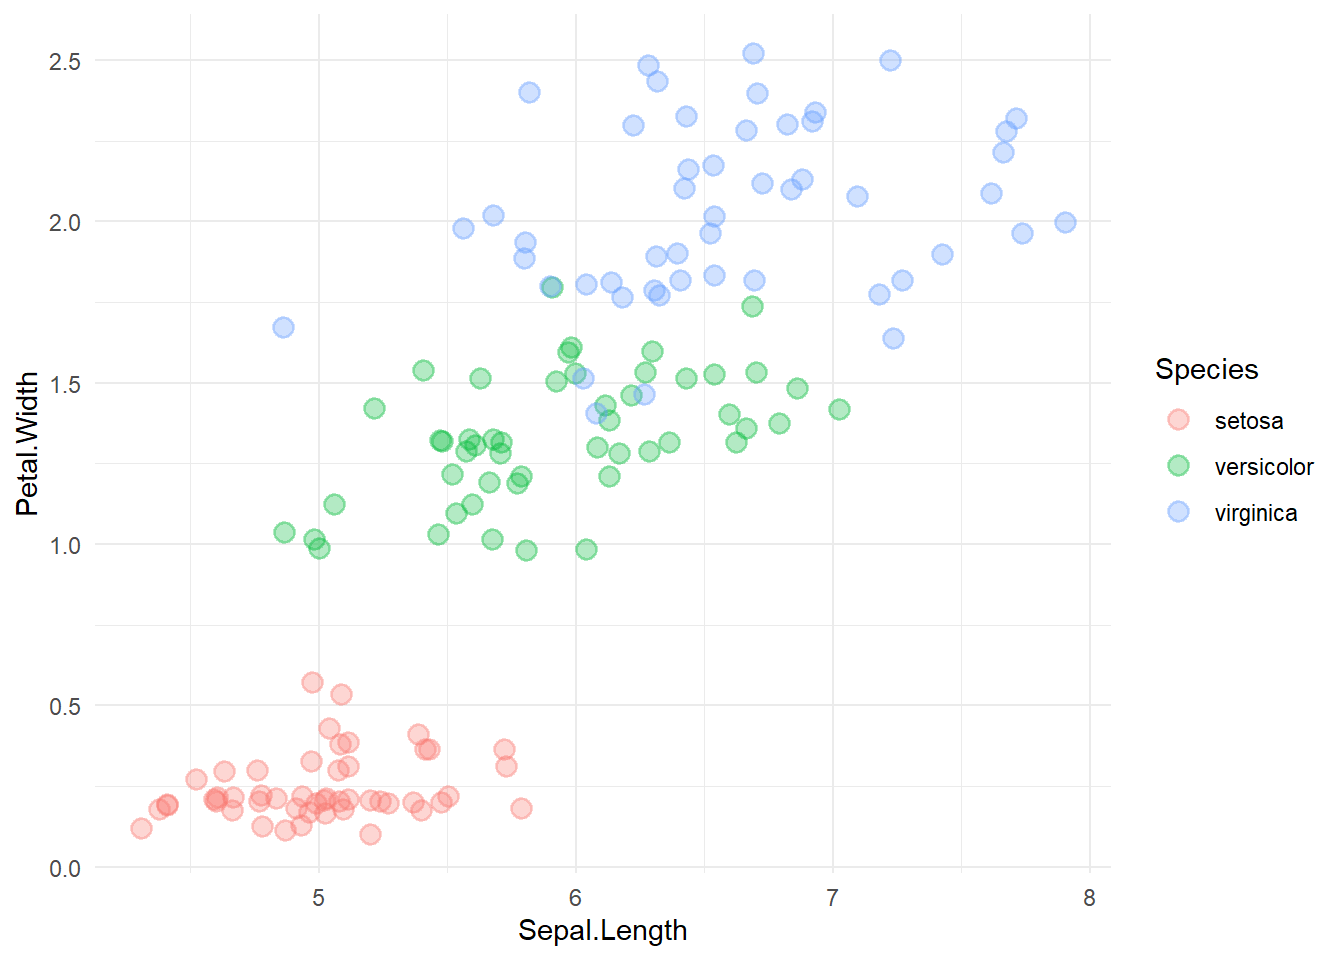
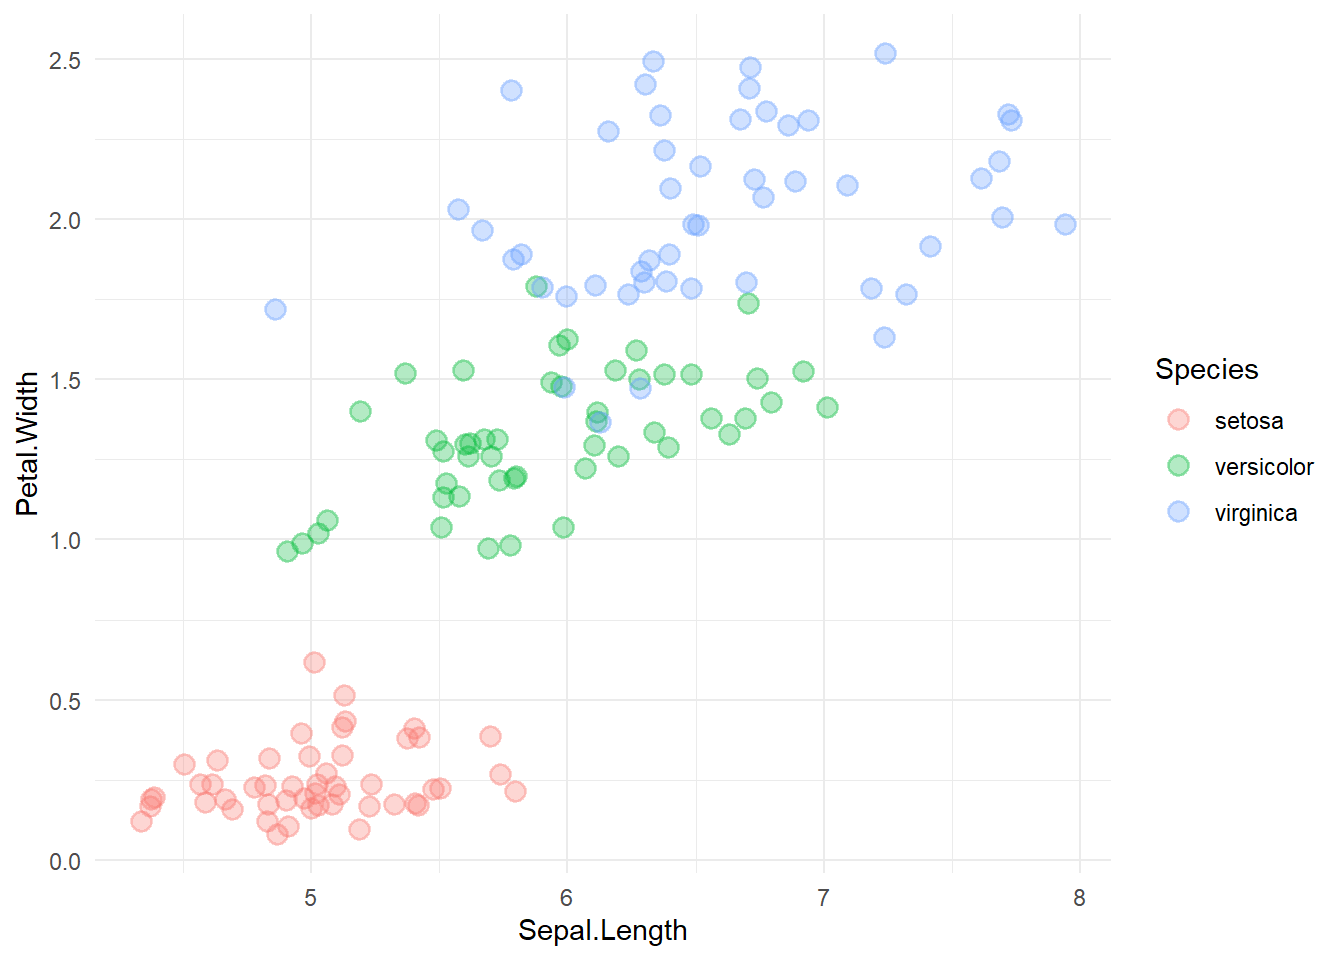
actualización excel XY

diff --git a/docs/posts/excel-xy/index.html b/docs/posts/excel-xy/index.html
@@ -238,7 +238,8 @@ code span.wa { color: #60a0b0; font-weight: bold; font-style: italic; } /* Warni
 <p>El método que he elegido es utilizar las tablas dinámicas. Desgraciadamente (e inexplicablemente), las tablas dinámicas no permiten la utilización de gráficos dinámicos XY, por lo que los usuarios han buscado formas alternativas de crearlos. La que vamos a utilizar aquí es la creación de un gráfico XY a partir de la asignación manual de los rangos de datos de la tabla dinámica.</p>
 <p>Utilizaremos el dataset <code>iris</code>(<a href="https://es.wikipedia.org/wiki/Conjunto_de_datos_flor_iris">Conjunto de datos Iris en Wikipedia</a>, <a href="https://www.kaggle.com/datasets/uciml/iris">Conjunto de datos Iris en kaggle</a>), exportado desde R, que convertimos en una tabla de Excel mediante <code>Menu</code>&gt;<code>Insertar</code>&gt;<code>Tabla</code></p>
 <p><img src="excel-tabla-iris.png" class="img-fluid"></p>
-<p>Queremos hacer una gráfica XY de la columna <code>Sepal.Length</code> frente a <code>Petal.Width</code>. Comenzamos insertando una tabla dinámica a partir de esta tabla, y colocamos<code>Species</code>en columnas,<code>Sepal.Length</code>en filas y<code>Petal.Width</code>en valores.</p>
+<p>Queremos hacer una gráfica XY de la columna <code>Sepal.Length</code> frente a <code>Petal.Width</code>, agrupada por <code>Species</code>, igual que hemos visto en el gráfico hecho con <code>ggplot</code>.</p>
+<p>Comenzamos insertando una tabla dinámica a partir de esta tabla, y colocamos<code>Species</code>en columnas,<code>Sepal.Length</code>en filas y<code>Petal.Width</code>en valores.</p>
 <p>Vamos a introducir algunas opciones de diseño de la tabla dinámica que nos facilitan el trabajo de construcción del gráfico. Haciendo <em>click</em> derecho en cualquier parte de la tabla, seleccionamos <code>Opciones de la tabla dinámica</code>. En la pestaña <code>Diseño y formato</code>, deseleccionamos la opción <code>Autoajustar anchos de columnas al actualizar</code>(de forma que quitemos la marca de <em>check</em>). En la pestaña <code>Totales y filtros</code>, deseleccionamos las dos opciones de <code>Totales generales</code>, de manera que quitemos la marca de <code>Mostrar totales generales de filas</code>y de <code>Mostrar totales generales de las columnas</code>.</p>
 <p><img src="excel-td-recuento.png" class="img-fluid"></p>
 <p>Excel siempre utiliza fórmulas de agrupación en los campos de valores, y por defecto utiliza <code>Recuento</code>. La fórmula de <code>Recuento</code> nos permite ver que hay algunas parejas de valores que están repetidas, por ejemplo, hay 8 valores de <code>Petal.Width</code>que coinciden con un valor de 5 en <code>Sepal.Length</code> y que la tabla dinámica ha agrupado. Esto es un inconveniente porque en un gráfico XY queremos que nos aparezcan todos los pares de valores sin agrupar, para que la nube de puntos represente el total de los datos.</p>

diff --git a/docs/index.html b/docs/index.html
@@ -158,7 +158,7 @@ ul.task-list li input[type="checkbox"] {
 
 <div class="quarto-listing quarto-listing-container-default" id="listing-listing">
 <div class="list quarto-listing-default">
-<div class="quarto-post image-right" data-index="0" data-listing-date-sort="1674860400000" data-listing-file-modified-sort="1674853959399" data-listing-reading-time-sort="10.79">
+<div class="quarto-post image-right" data-index="0" data-listing-date-sort="1674860400000" data-listing-file-modified-sort="1674854745926" data-listing-reading-time-sort="10.85">
 <div class="thumbnail">
 <p><a href="./posts/excel-xy/index.html"> <img src="./posts/excel-xy/excel-tabla-iris.png" class="thumnail-image"> </a></p>
 </div>
